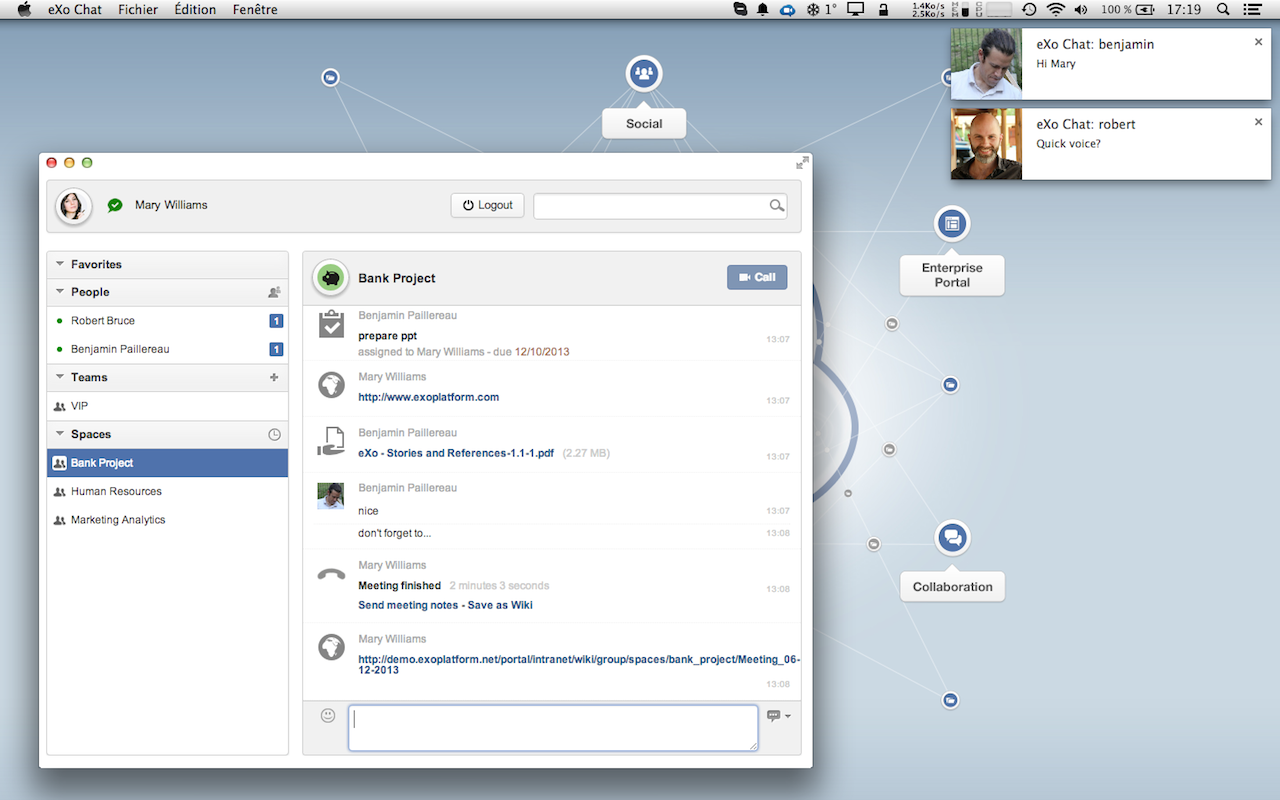
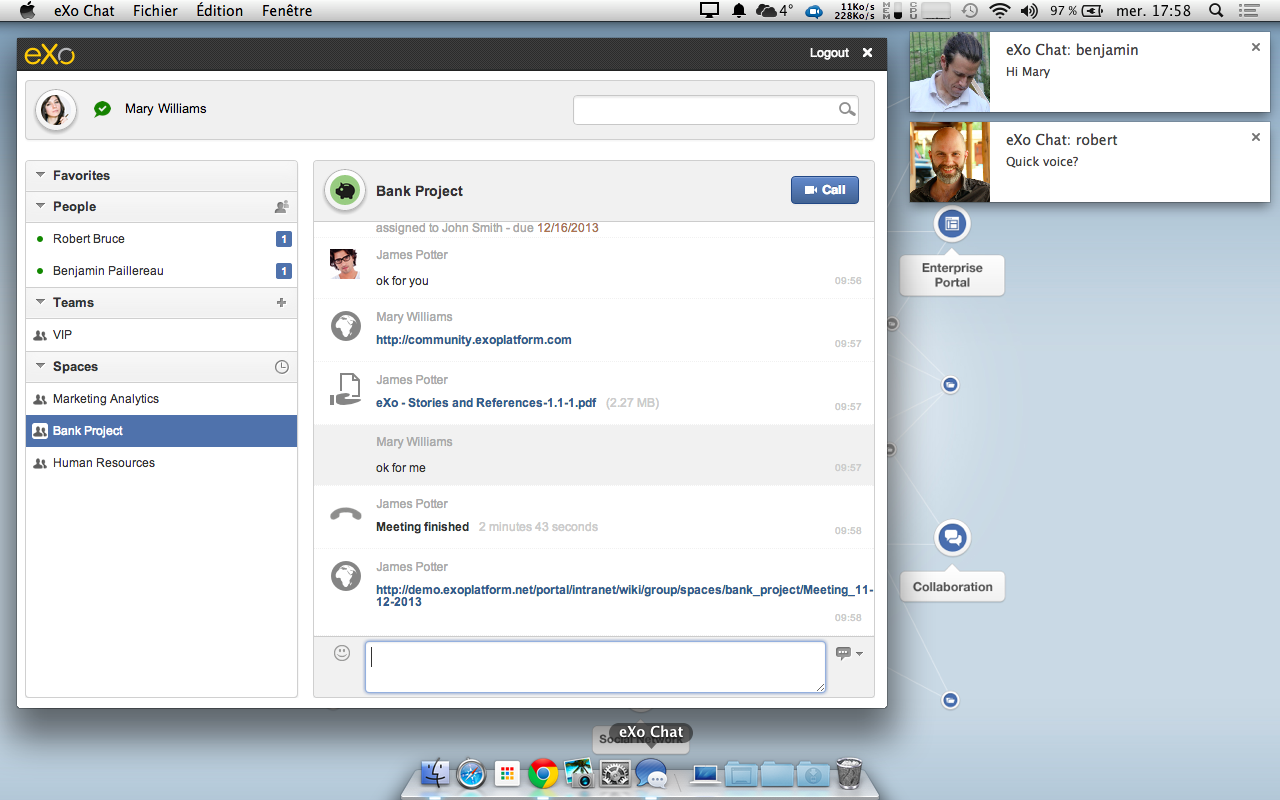
fix and screenshots on new version

diff --git a/data/applications/chrome/exochat-app/index.css b/data/applications/chrome/exochat-app/index.css
@@ -221,7 +221,7 @@ button, html input[type="button"], input[type="reset"], input[type="submit"] {
   height: 34px;
   display: block;
   text-align: right;
-  width: 100%;
+  width: 96%;
   position: relative;
   z-index: 200;
 }
@@ -229,7 +229,6 @@ button, html input[type="button"], input[type="reset"], input[type="submit"] {
 .topSpaceBar a {
   text-decoration: none;
   color: #FFF;
-  margin-right: 30px;
 }
 
 #logoutLink {
